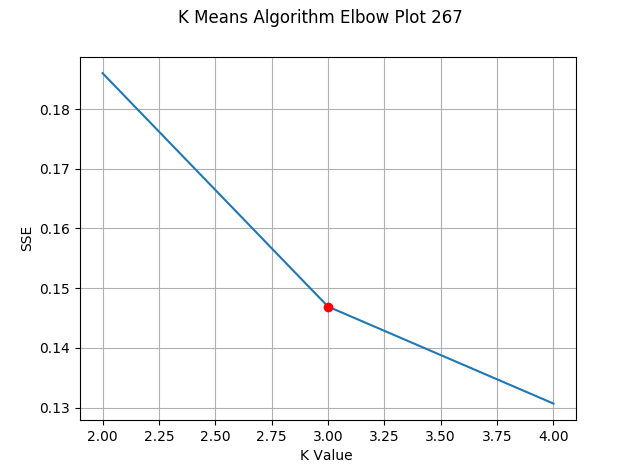
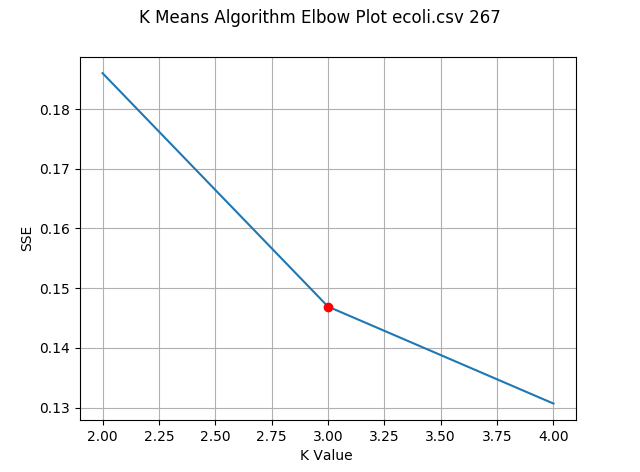
Add files via upload

Changed region(s): [[0.2188, 0.0, 0.7812, 0.0593]]

diff --git a/kmeans_gmm.py b/kmeans_gmm.py
@@ -306,7 +306,7 @@ def do_KMeans(col1, col2, col3):
     print ("Optimal Cluster Labels : " + str(optYlabels))
     print ("~" * 75)
     plt.figure("K Means Algorithm Elbow Plot " + str(col1) + str(col2) + str(col3))
-    plt.suptitle("K Means Algorithm Elbow Plot " + str(col1) + str(col2) + str(col3))
+    plt.suptitle("K Means Algorithm Elbow Plot " + filename + ' ' + str(col1) + str(col2) + str(col3))
     plt.plot(range(2, no_clusters + 1), cost_func_list)
     plt.plot(kvals[optKindex], cost_func_list[optKindex], 'ro')
     plt.ylabel("SSE")
